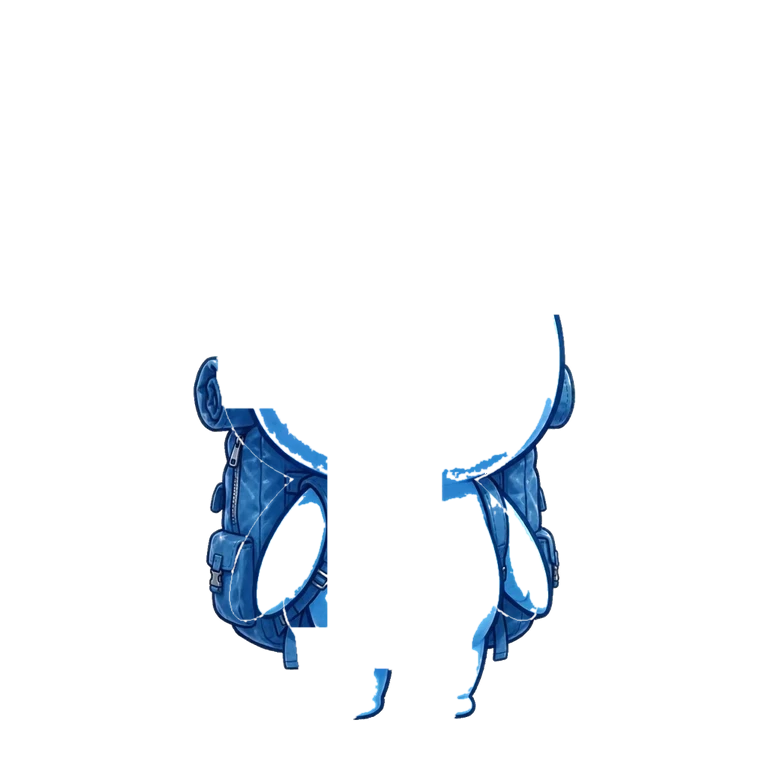
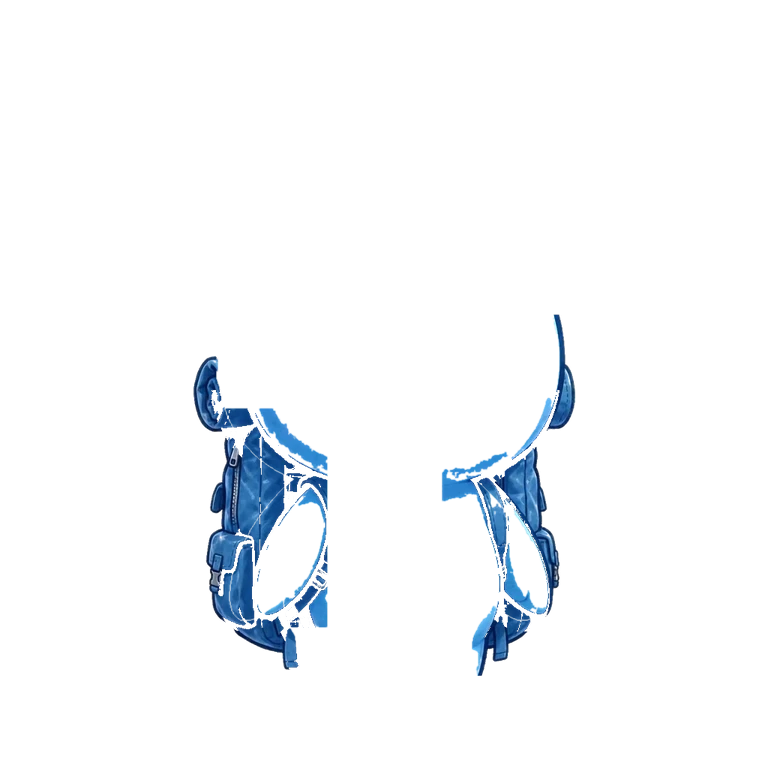
Pi: nhận ba lô pk12 vẽ lại (vẫn còn viền thân thừa, chờ vẽ lại); e2e cửa hàng Trung thu kiểm áo đang bán
Claude-Session: https://claude.ai/code/session_0163KSZYdzHDud2uG42gs7mp

diff --git a/scripts/pi/fit_check.py b/scripts/pi/fit_check.py
@@ -155,7 +155,7 @@ def check(it):
 # 24/10 duyệt bằng mắt (bộ pi_fix_30): OK = báo nhầm (vật vốn có cạnh thẳng đứng); BAD = lỗi máy không bắt được
 # (24/10: bộ pi_full thay 234 món → duyệt mắt lại từ đầu; ghi vào đây món nào duyệt xong)
 EYE_OK = {"muadong-nam-pk08": "quả cầu kính xanh nhạt (báo nhầm mảng thân)", "muahe-nam-pk11": "phao vịt ôm sát người (báo nhầm viền thân)", "trungthu-nu-pk04": "thỏ bông vốn màu trắng (báo nhầm mảng trắng)", "trungthu-nu-dau04": "dây đèn lồng vốn lệch 1 bên (soát mắt 24/10)", "tet-nam-pk08": "cuộn thư dựng đứng (bản fix_30 đã duyệt)", "muahe-nu-pk05": "ly thẳng thành (bản fix_30 đã duyệt)"}
-EYE_BAD = {"muahe-nam-pk12": "ba lô vẫn còn viền thân Pi thừa bên phải, kéo xuống dưới chân"}  # 24/10 duyệt mắt pi_fix_5
+EYE_BAD = {}  # 24/10 duyệt mắt pi_fix_5
 res = {}
 for it in man["items"]:
     r = [] if it["id"] in EYE_OK else check(it)
